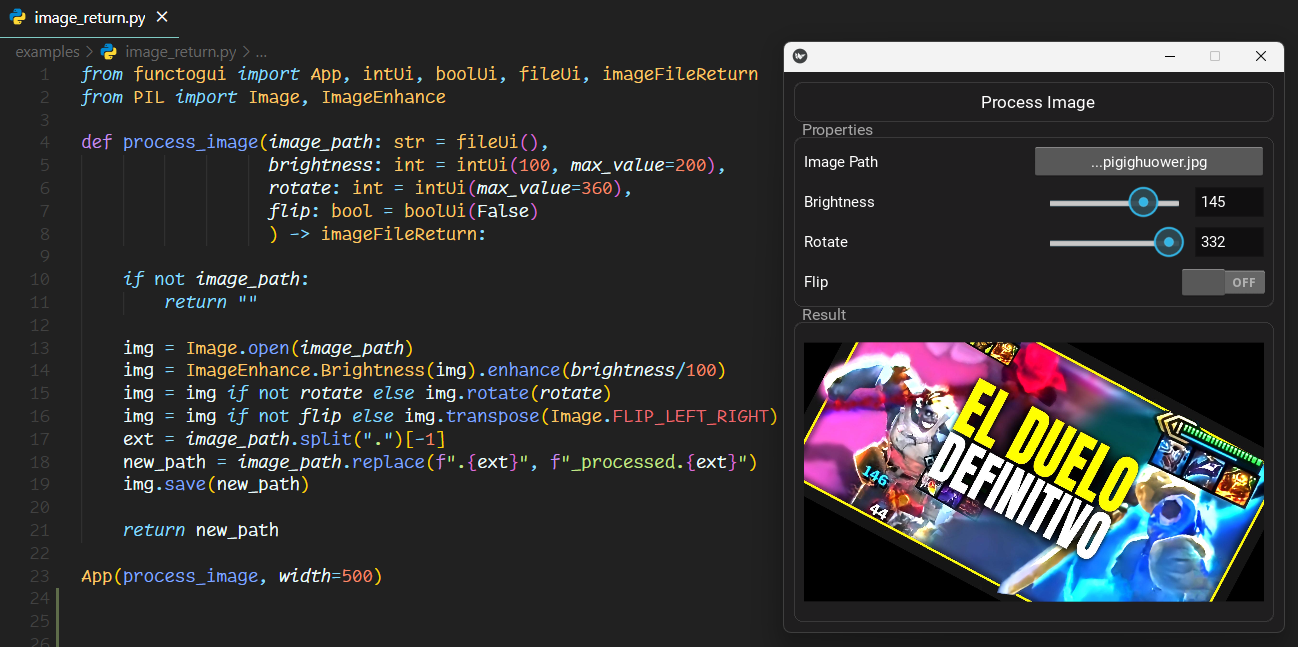
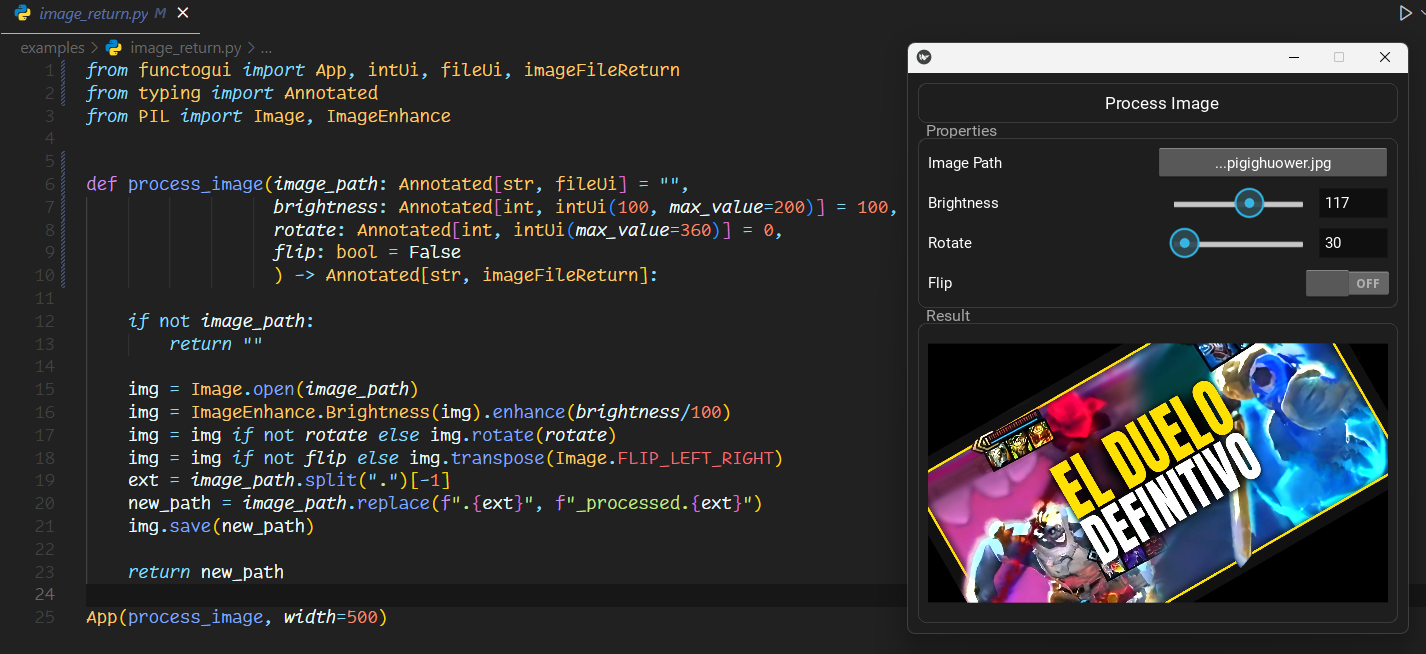
Bump version to 0.0.2 and refactor example functions to use type annotations; update README.md with new usage examples

diff --git a/functogui/inspect_fuction.py b/functogui/inspect_fuction.py
@@ -1,0 +1,102 @@
+from functogui.ui_types import intUi, strUi, fileUi, listUi, boolUi
+from typing import Any, get_type_hints
+
+import inspect
+
+primite_types_allowed = ["int", "str", "bool"]
+ui_types = ["intUi", "strUi", "fileUi", "listUi", "boolUi"]
+map_primitive_ui = {"int": intUi,
+                    "str": strUi,
+                    "bool": boolUi
+                    }
+map_return_ui = {"int": "intReturn",
+                 "str": "strReturn",
+                 "bool": "boolReturn",
+                 }
+
+def get_return_type_name(func: callable) -> str:
+    """Get the name of the return type of a function."""
+    type_hints = get_type_hints(func, include_extras=True).get('return', Any)
+
+    if not "_AnnotatedAlias" in type(type_hints).__name__:
+        name = type_hints.__name__
+        if not name in primite_types_allowed:
+            raise ValueError(f"Return type '{name}' is not allowed, must be one of {primite_types_allowed}")
+        name = map_return_ui[name]
+        return name
+
+    metadata = type_hints.__metadata__[0]
+    if type(metadata) == type:
+        metadata = metadata()
+    name = metadata.__class__.__name__
+    print(name)
+    return name
+
+def inspect_params(func):
+    """
+    Inspects function parameters and returns UI configuration info.
+    
+    Args:
+        func: Function to inspect
+    
+    Returns:
+        dict: Parameter info with structure:
+            {param_name: {
+                'type': primitive type name,
+                'ui_type': UI widget class name,
+                'default': default value,
+                'options': UI widget configuration
+            }}
+    
+    Raises:
+        ValueError: For missing defaults, type hints or invalid types
+    """
+
+    parameters = inspect.signature(func).parameters.items()
+    parameters_info = {}
+
+    for name, param in parameters:
+        name = param.name
+        annotation = param.annotation
+        default = param.default
+
+        if "inspect._empty" in str(default):
+            raise ValueError(f"Parameter {name} has no default value")
+        
+        if "inspect._empty" in str(annotation):
+            raise ValueError(f"Parameter {name} has no type hint")
+
+        if not "_AnnotatedAlias" in type(annotation).__name__:
+            type_primitive = annotation.__name__
+            ui_type = map_primitive_ui[type_primitive]
+
+            default_ui = ui_type()
+            options = {k:v for k,v in default_ui.__dict__.items() if k != 'value'}
+
+            info_param = {"type": type_primitive,
+                          "ui_type": ui_type.__name__,
+                          "default": default,
+                          "options": options}
+        else:
+            metadata = annotation.__metadata__[0]
+            if type(metadata) == type:
+                metadata = metadata()
+            type_primitive = annotation.__args__[0].__name__
+            ui_type = metadata.__class__.__name__
+
+            if not ui_type in ui_types:
+                raise ValueError(f"Parameter {name} has an invalid Ui type '{ui_type}', must be one of {ui_types}")
+            
+            metadata_attrs = {k:v for k,v in metadata.__dict__.items() if k != 'value'}
+
+            info_param = {"type": type_primitive,
+                          "ui_type": metadata.__class__.__name__,
+                          "default": default,
+                          "options": metadata_attrs}
+
+        if not type_primitive in primite_types_allowed:
+            raise ValueError(f"Parameter {name} has an invalid type hint '{type_primitive}'")
+
+        parameters_info[name] = info_param
+    
+    return parameters_info

diff --git a/functogui/app_builder.py b/functogui/app_builder.py
@@ -6,30 +6,21 @@ from kivy.metrics import dp
 from kivy.clock import Clock
 from pathlib import Path
 
-from .ui_types import inspect_params, get_return_type_name
+from .inspect_fuction import inspect_params, get_return_type_name
 from .ui_widgets import *
 
 Builder.load_file(str(Path(__file__).parent / "styles.kv"))
-simple_types = ["strReturn", "intReturn", "boolReturn"]
-all_types = simple_types + ["imageFileReturn"]
 
 class MainLayout(BoxLayout):
-    """
-    Main layout of the app. Contains the properties and the result of the function.
-    """
     title = StringProperty("Function GUI")
     
-    def __init__(self,
-                 function,
-                 width: int = 350,
-                 **kwargs):
+    def __init__(self, function, width: int = 350, **kwargs):
         super().__init__(**kwargs)
         self.function = function
         self.user_max_width = width
         self.title = "  " + function.__name__.replace("_", " ").title()
         self.return_type = get_return_type_name(function)
-        if self.return_type not in all_types:
-            raise TypeError(f"Return type must be one of {all_types}")
+        self.basic_return_types = ["strReturn", "intReturn", "boolReturn"]
         
         self._create_properties(inspect_params(function))
         Clock.schedule_once(self.calculate_function, 0.1)
@@ -42,7 +33,7 @@ class MainLayout(BoxLayout):
                 for prop in self.ids.properties_layout.children}
         result = self.function(**props)
 
-        for type in simple_types:
+        for type in self.basic_return_types:
             if self.return_type == type:
                 self.ids.result_layout.children[0].text = str(result)
         
@@ -51,9 +42,6 @@ class MainLayout(BoxLayout):
             self.ids.result_layout.children[0].ids.image.reload()
 
     def _create_properties(self, properties):
-        """
-        Create the properties widgets based on the function parameters.
-        """
         PROPERTY_TYPES = {
             "strUi": CustomStrProperty,
             "intUi": CustomIntProperty,
@@ -65,15 +53,15 @@ class MainLayout(BoxLayout):
         for prop_name, prop_info in properties.items():
             values = {
                 "name": prop_name.replace("_", " ").title(),
-                **{k: v["default"] for k, v in prop_info["default_params"].items()},
-                **prop_info["constructor_values"]
+                "value": prop_info["default"],
+                **prop_info["options"]
             }
             
-            prop = PROPERTY_TYPES[prop_info["default_class"]](**values)
+            prop = PROPERTY_TYPES[prop_info["ui_type"]](**values)
             prop.value_changed_callback = lambda *_: self._schedule_calculation()
             self.ids.properties_layout.add_widget(prop)
         
-        for type in simple_types:
+        for type in self.basic_return_types:
             if self.return_type == type:
                 self.ids.result_layout.add_widget(StrReturn())
         

diff --git a/functogui/ui_types.py b/functogui/ui_types.py
@@ -1,6 +1,4 @@
 from dataclasses import dataclass
-import inspect
-from typing import Any, get_type_hints
 
 @dataclass
 class strUi:
@@ -38,39 +36,3 @@ class boolReturn:
 
 class imageFileReturn:
     pass
-
-def get_return_type_name(func: callable) -> str:
-    """Get the name of the return type of a function."""
-    type_hints = get_type_hints(func)
-    return type_hints.get('return', Any).__name__
-
-def inspect_params(func: callable) -> dict:
-    """Inspect the parameters of a function and return a dictionary with the information."""
-    params_info = {}
-    
-    for name, param in inspect.signature(func).parameters.items():
-        default = param.default
-        type_hint = param.annotation
-
-        try:
-            current_values = {
-                field: getattr(default, field)
-                for field in default.__dataclass_fields__
-            }
-        except AttributeError:
-            raise TypeError(f"Parameter {name} must be a type hint")
-        
-        params_info[name] = {
-            'type': type_hint.__name__,
-            'default_class': default.__class__.__name__,
-            'constructor_values': current_values,
-            'default_params': {
-                param_name: {
-                    'type': param.annotation.__name__,
-                    'default': param.default if param.default != param.empty else None
-                }
-                for param_name, param in inspect.signature(default.__class__).parameters.items()
-            }
-        }
-    
-    return params_info

diff --git a/examples/image_return.py b/examples/image_return.py
@@ -1,11 +1,13 @@
-from functogui import App, intUi, boolUi, fileUi, imageFileReturn
+from functogui import App, intUi, fileUi, imageFileReturn
+from typing import Annotated
 from PIL import Image, ImageEnhance
 
-def process_image(image_path: str = fileUi(),
-                  brightness: int = intUi(100, max_value=200),
-                  rotate: int = intUi(max_value=360),
-                  flip: bool = boolUi(False)
-                  ) -> imageFileReturn:
+
+def process_image(image_path: Annotated[str, fileUi] = "",
+                  brightness: Annotated[int, intUi(100, max_value=200)] = 100,
+                  rotate: Annotated[int, intUi(max_value=360)] = 0,
+                  flip: bool = False
+                  ) -> Annotated[str, imageFileReturn]:
 
     if not image_path:
         return ""

diff --git a/examples/dinamic_list.py b/examples/dinamic_list.py
@@ -1,10 +1,11 @@
-from functogui import App, listUi, strReturn
+from functogui import App, listUi
+from typing import Annotated
 from random import choice
 
 valid_characters = [choice("abcdefghijklmnopqrstuvwxyz") for _ in range(3)]
 
-def random_choice(characters: str = listUi(valid_characters[0], values=valid_characters)
-                  ) -> strReturn:
+def random_choice(characters: Annotated[str, listUi(values=valid_characters)] = valid_characters[0]
+                  ) -> str:
     
     return characters
 

diff --git a/examples/str_return.py b/examples/str_return.py
@@ -1,8 +1,9 @@
 from functogui import App, strUi, intUi, strReturn
+from typing import Annotated
 
-def hello_world(name: str = strUi("World", max_length=10, min_length=1),
-                times: int = intUi(3, min_value=1, max_value=10)
-                ) -> strReturn:
+def hello_world(name: Annotated[str, strUi(max_length=10, min_length=1)] = "World",
+                times: Annotated[int, intUi(min_value=1, max_value=10)] = 3
+                ) -> str:
     
     return f"Hello {name}! " * times
 

diff --git a/examples/int_return.py b/examples/int_return.py
@@ -1,8 +1,9 @@
 from functogui import App, intUi, intReturn
+from typing import Annotated
 
-def time_to_seconds(hours: int = intUi(1, max_value=24),
-                    minutes: int = intUi(30, max_value=59)
-                    ) -> intReturn:
+def time_to_seconds(hours: Annotated[int, intUi(max_value=24)] = 1,
+                    minutes: Annotated[int, intUi(max_value=59)] = 30
+                    ) -> int:
     
     return (hours * 3600) + (minutes * 60)
 

diff --git a/functogui/__init__.py b/functogui/__init__.py
@@ -1,5 +1,10 @@
-from kivy.config import Config
-Config.set('graphics', 'resizable', False)
+from platform import system
+
+sistem = system()
+
+if sistem == 'Windows' or sistem == 'Linux' or sistem == 'Darwin':
+    from kivy.config import Config
+    Config.set('graphics', 'resizable', False)
 
 from .ui_widgets import *
 from .ui_types import *

diff --git a/examples/bool_return.py b/examples/bool_return.py
@@ -1,6 +1,6 @@
-from functogui import App, intUi, boolUi, boolReturn
+from functogui import App
 
-def check_even_number(number: int = intUi(4, max_value=100)) -> boolReturn:
+def check_even_number(number: int = 4) -> bool:
     return number % 2 == 0
 
 App(check_even_number)

diff --git a/examples/quick.py b/examples/quick.py
@@ -1,6 +1,6 @@
-from functogui import App, intUi, boolReturn
+from functogui import App
 
-def is_even(number: int = intUi(4)) -> boolReturn:
+def is_even(number: int = 4) -> bool:
     return number % 2 == 0
 
 App(is_even)

diff --git a/setup.py b/setup.py
@@ -2,7 +2,7 @@ from setuptools import setup, find_packages
 
 setup(
     name="functogui",
-    version="0.0.1",
+    version="0.0.2",
     author="Beltrán Offerrall",
     packages=find_packages(),
     package_data={

diff --git a/readme.md b/readme.md
@@ -8,13 +8,28 @@ Perfect for internal tools, quick testing, or prototypes. FuncToGUI is cross-pla
 FuncToGUI is built on top of [Kivy](https://kivy.org/) and [pyler](https://github.com/kivy/plyer) for file handling.
 
 ## Quick Start
+Normal function:
 ```python
-from functogui import App, intUi, boolReturn
+from functogui import App
 
-def is_even(number: int = intUi(4)) -> boolReturn:
+def is_even(number: int = 4) -> bool:
     return number % 2 == 0
 
 App(is_even)
+```
+
+Function with UI types:
+```python
+from functogui import App, intUi, intReturn
+from typing import Annotated
+
+def time_to_seconds(hours: Annotated[int, intUi(max_value=24)] = 1,
+                    minutes: Annotated[int, intUi(max_value=59)] = 30
+                    ) -> int:
+    
+    return (hours * 3600) + (minutes * 60)
+
+App(time_to_seconds)
 ```
 
 ## Key Features
@@ -37,20 +52,23 @@ App(is_even)
 git clone https://github.com/offerrall/FuncToGUI
 cd FuncToGUI
 
-pip install -e .
+pip install .
 ```
 
-## Examples
+## How to Use
+This library is designed to be as simple as possible. You only need look at the examples to understand how to use it.
 - [Examples](./examples)
 
-The examples folder contains all the examples you need to understand how to use FuncToGUI.
 
 ## Documentation
 
 **`functogui.ui_types`**
 - Define input types: `strUi`, `intUi`, `boolUi`, `fileUi`
 - Define return types: `strReturn`, `intReturn`, `boolReturn`, `imageFileReturn`
-- Handle function inspection and type extraction
+
+**`functogui.inspect_function`**
+- Extracts function signature and annotations
+- Validates function parameters and return types
 
 **`functogui.ui_widgets`**
 - Custom Kivy widgets for each UI type
